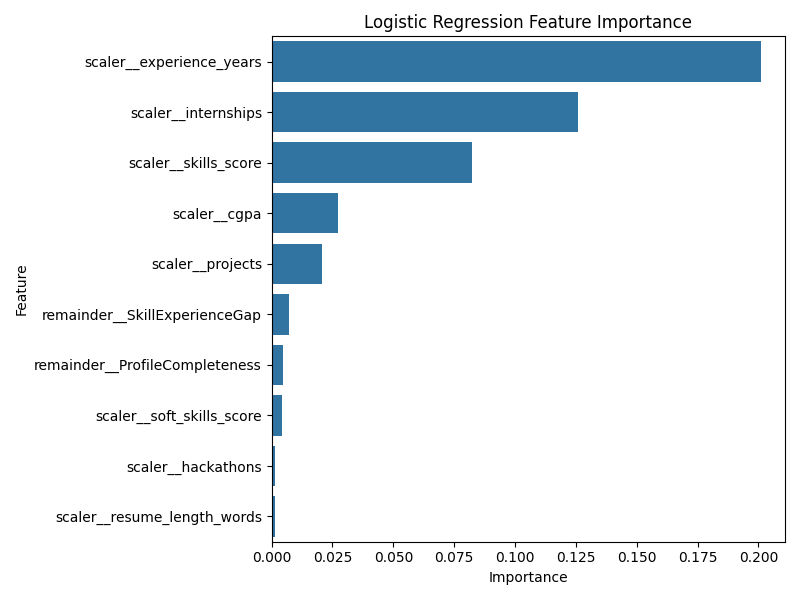
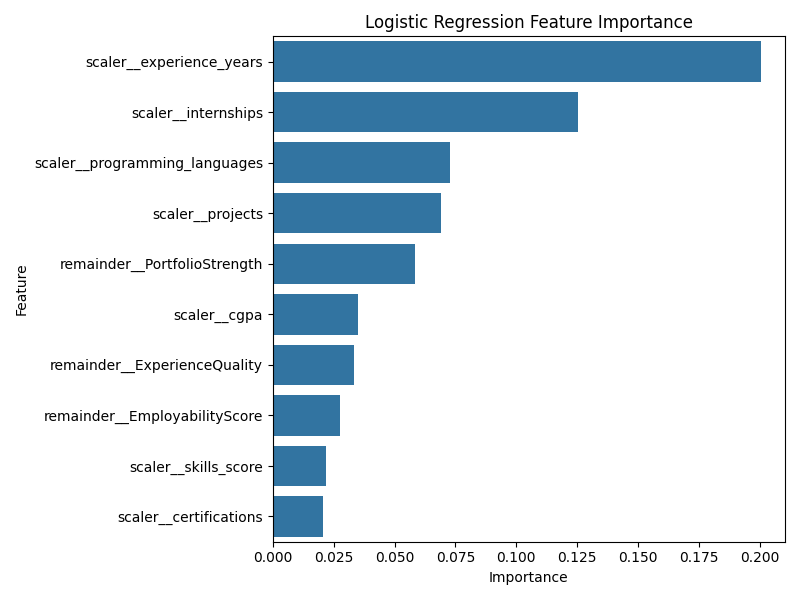
fix: reduce RF/XGB search space and disable parallelism to prevent macOS OOM kill

diff --git a/talentiq/src/train.py b/talentiq/src/train.py
@@ -156,7 +156,7 @@ def search_model(
         estimator=estimator,
         cv=hp["cv"],
         scoring=hp["scoring"],
-        n_jobs=-1,
+        n_jobs=1,
         verbose=1,
     )
 